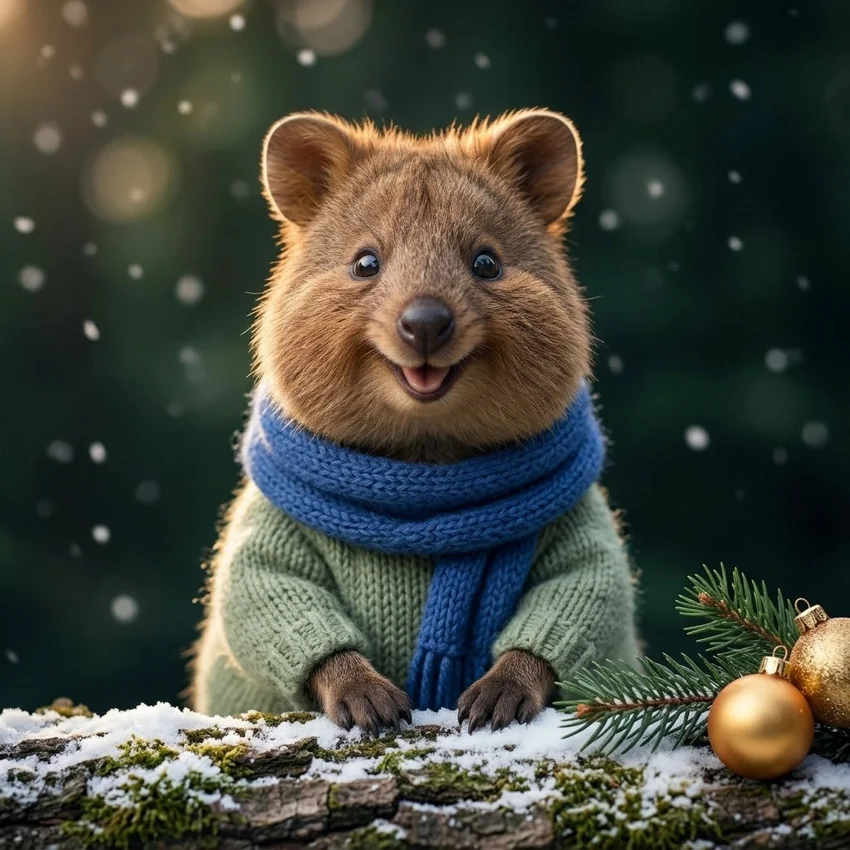
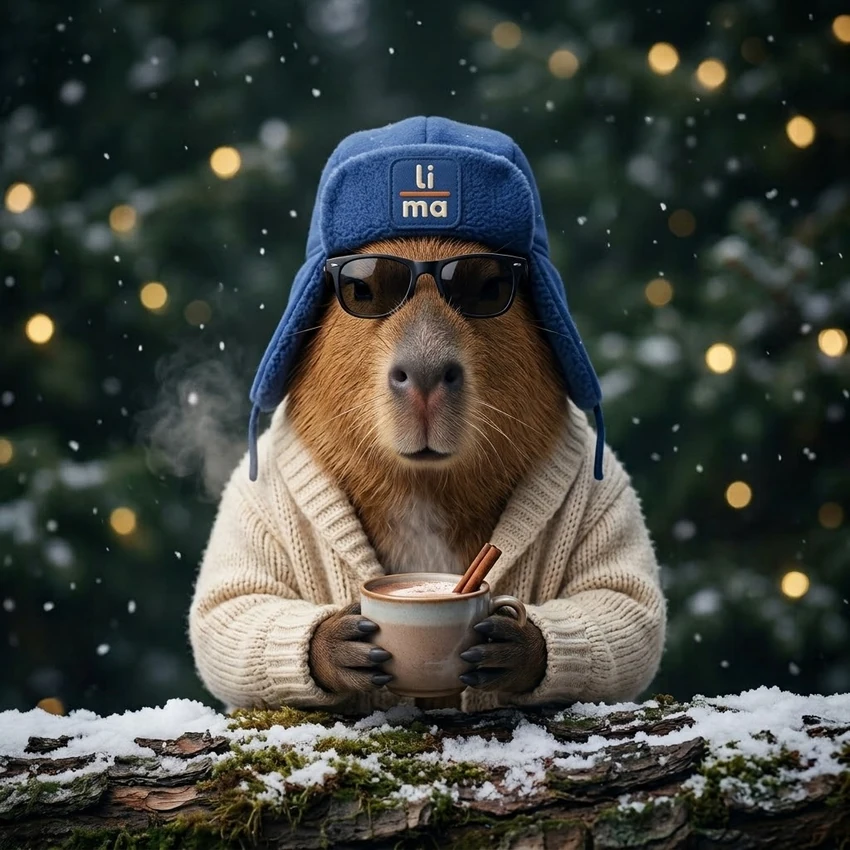
Поставить зимнего Капи на главную страницу

diff --git a/index.html b/index.html
@@ -93,7 +93,7 @@
 </header>
 <main id="main">
 <div class="home-intro">
-<figure class="brandband top"><picture><source id="new-year-mascots" media="not all" srcset="img/brand/kapi-new-year.webp" width="850" height="850" data-alt="Капи в синей ушанке держит чашку"><img src="img/brand/brand-li-ma.jpg" width="1376" height="768" fetchpriority="high" alt="Герои lili.math в лесу"></picture></figure>
+<figure class="brandband top"><picture><source id="new-year-mascots" media="not all" srcset="img/brand/kapi-new-year.webp?v=20261127-capy" width="850" height="850" data-alt="Капи в синей ушанке держит чашку"><img src="img/brand/brand-li-ma.jpg" width="1376" height="768" fetchpriority="high" alt="Герои lili.math в лесу"></picture></figure>
 <section class="hero" aria-labelledby="hero-title">
 <div>
 <p class="eyebrow">Математика онлайн · 5–9 классы</p>
